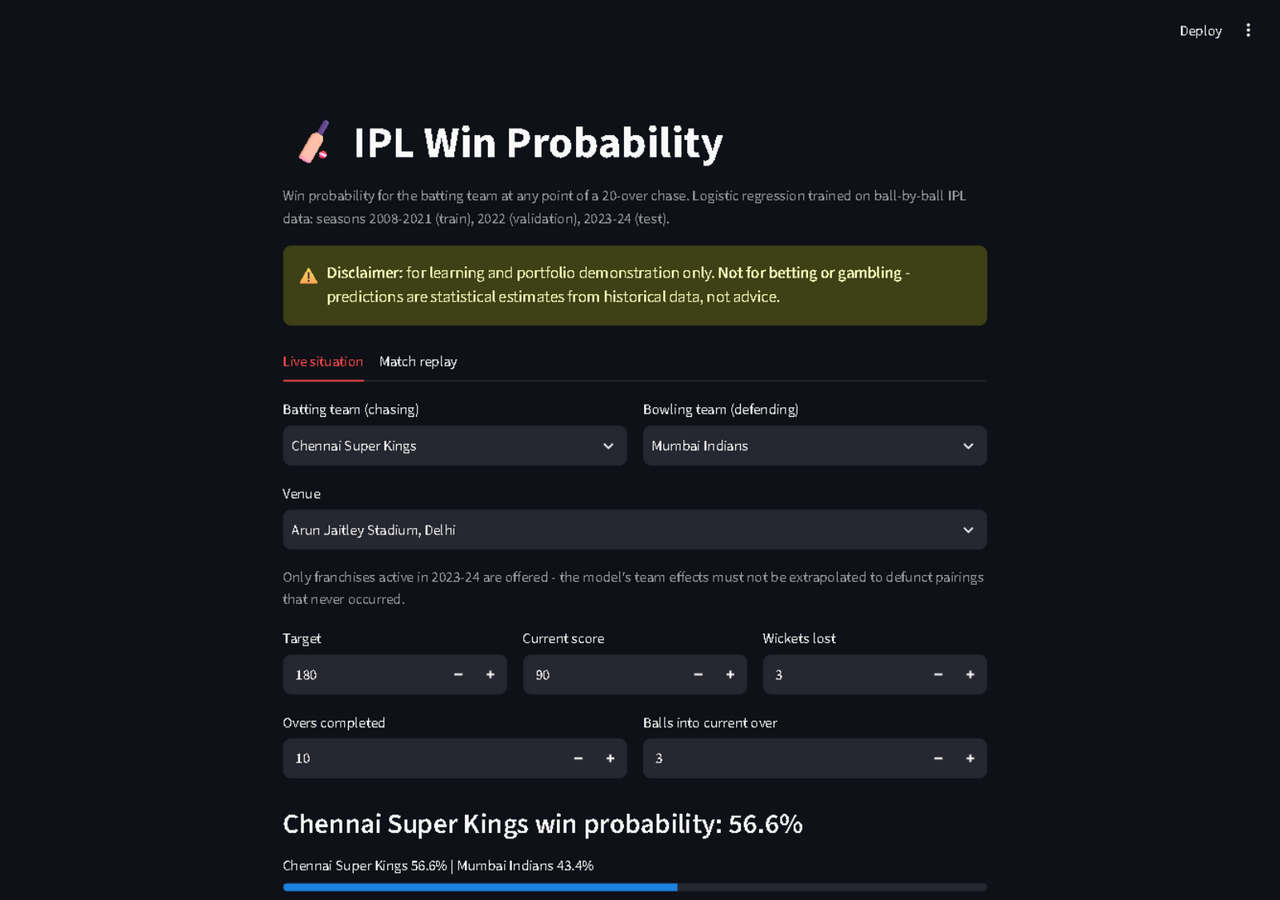
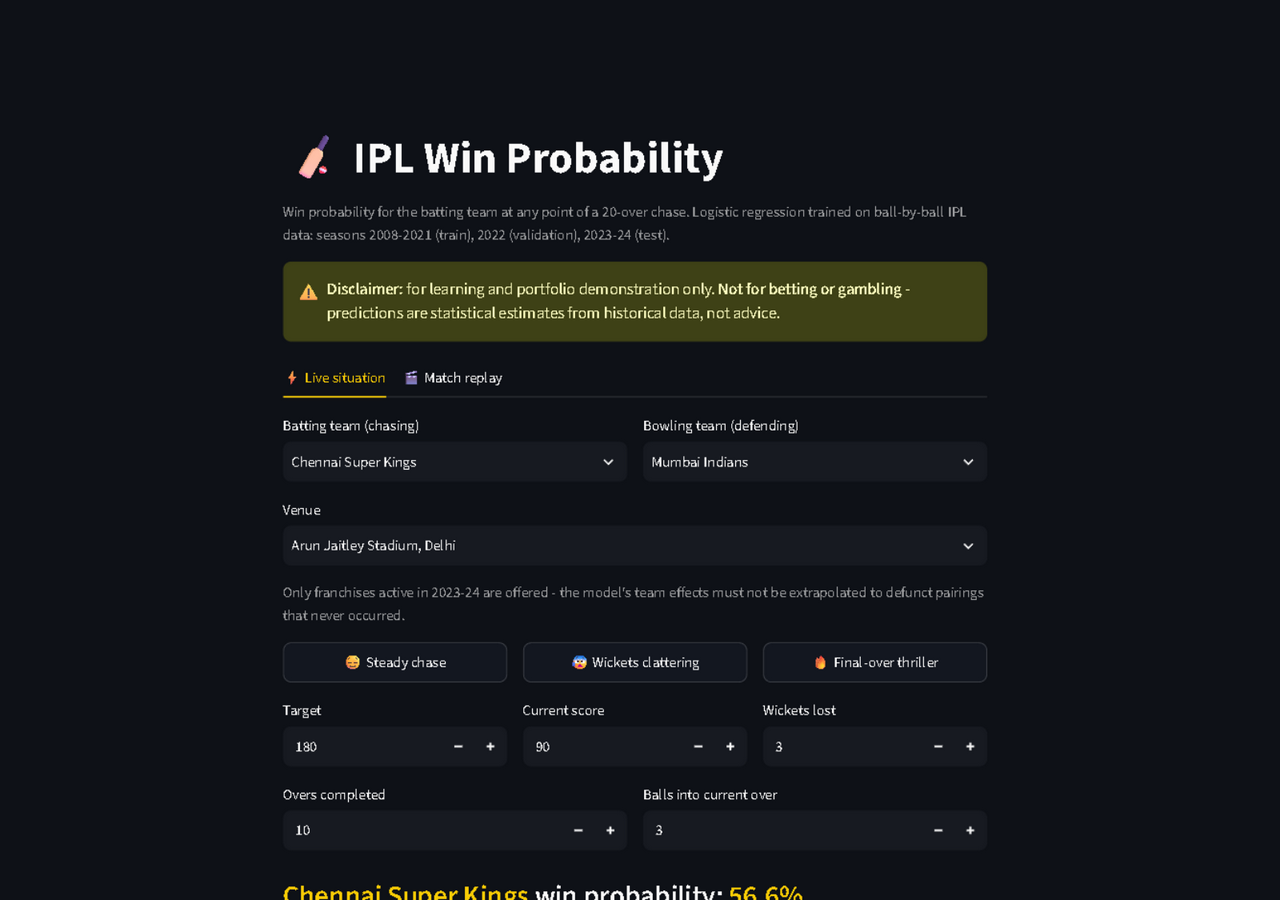
UI refresh: dark theme, team colours, presets, verdict, replay styling
- .streamlit/config.toml dark theme; custom CSS for metric cards, tabs,
  two-tone win bar; Streamlit toolbar hidden
- franchise brand colours in headline, win bar and replay chart line
  (with shaded area), short team codes in bar segments
- one-click situation presets (steady / wobble / final-over thriller)
- plain-English verdict line; what-if table now shows point deltas
- replay labels include venue; caption shows final score
- AppTest suite updated + preset test -> 36 tests pass; live browser
  verified: presets fill inputs and re-predict (0.7% for 14 off 3)

Changed region(s): [[0.2188, 0.1244, 0.7812, 1.0], [0.9062, 0.0311, 0.9688, 0.0622]]

diff --git a/app/app.py b/app/app.py
@@ -27,6 +27,73 @@ from src.predict import predict_situation  # noqa: E402
 
 st.set_page_config(page_title="IPL Win Probability", page_icon="🏏", layout="centered")
 
+#: Approximate franchise brand colours (canonical team name -> hex).
+TEAM_COLORS: dict[str, str] = {
+    "Chennai Super Kings": "#F9CD05",
+    "Mumbai Indians": "#004BA0",
+    "Royal Challengers Bengaluru": "#DA1818",
+    "Kolkata Knight Riders": "#5C2D91",
+    "Sunrisers Hyderabad": "#F26522",
+    "Rajasthan Royals": "#EA1A85",
+    "Delhi Capitals": "#17479E",
+    "Punjab Kings": "#D71920",
+    "Gujarat Titans": "#1B2C5C",
+    "Lucknow Super Giants": "#0072BC",
+}
+TEAM_SHORT: dict[str, str] = {
+    "Chennai Super Kings": "CSK",
+    "Mumbai Indians": "MI",
+    "Royal Challengers Bengaluru": "RCB",
+    "Kolkata Knight Riders": "KKR",
+    "Sunrisers Hyderabad": "SRH",
+    "Rajasthan Royals": "RR",
+    "Delhi Capitals": "DC",
+    "Punjab Kings": "PBKS",
+    "Gujarat Titans": "GT",
+    "Lucknow Super Giants": "LSG",
+}
+DEFAULT_COLOR = "#1F77B4"
+
+#: One-click example situations (label -> widget values).
+PRESETS: dict[str, dict[str, int]] = {
+    "😌 Steady chase": {"target": 180, "score": 95, "wickets": 2, "overs": 12, "balls": 0},
+    "😰 Wickets clattering": {"target": 180, "score": 78, "wickets": 5, "overs": 12, "balls": 0},
+    "🔥 Final-over thriller": {"target": 190, "score": 176, "wickets": 5, "overs": 19, "balls": 3},
+}
+
+CUSTOM_CSS = """
+<style>
+    [data-testid="stToolbar"] {visibility: hidden;}
+    [data-testid="stMetric"] {
+        background: rgba(255, 255, 255, 0.045);
+        border: 1px solid rgba(255, 255, 255, 0.09);
+        border-radius: 12px;
+        padding: 12px 16px 10px 16px;
+    }
+    [data-testid="stMetricValue"] {font-size: 1.55rem;}
+    [data-testid="stMetricLabel"] p {font-size: 0.86rem !important;}
+    [data-testid="stTab"] button {font-size: 1.02rem; padding: 10px 4px;}
+    .winbar {display: flex; width: 100%; height: 46px; border-radius: 11px;
+             overflow: hidden; font-weight: 700; font-size: 0.92rem;
+             box-shadow: 0 1px 6px rgba(0,0,0,0.35);}
+    .winbar .seg {display: flex; align-items: center; justify-content: center;
+                  color: #fff; text-shadow: 0 1px 2px rgba(0,0,0,0.55);
+                  white-space: nowrap; overflow: hidden;}
+    div[data-testid="stExpander"] {border-radius: 12px;}
+</style>
+"""
+st.markdown(CUSTOM_CSS, unsafe_allow_html=True)
+
+
+def team_color(team: str) -> str:
+    """Franchise colour with a neutral fallback for unknown names."""
+    return TEAM_COLORS.get(team, DEFAULT_COLOR)
+
+
+def team_short(team: str) -> str:
+    """Short franchise code for tight UI labels."""
+    return TEAM_SHORT.get(team, team[:3].upper())
+
 
 @st.cache_resource(show_spinner="Loading model...")
 def get_model() -> dict:
@@ -55,9 +122,7 @@ ART = get_model()
 #: active team with a defunct one (e.g. CSK vs Gujarat Lions, which never
 #: happened - CSK was suspended 2016-17) extrapolates nonsense.
 REPLAY = get_replay_data()
-ACTIVE_TEAMS: list[str] = sorted(
-    set(REPLAY["batting_team"]) | set(REPLAY["bowling_team"])
-)
+ACTIVE_TEAMS: list[str] = sorted(set(REPLAY["batting_team"]) | set(REPLAY["bowling_team"]))
 VENUES: list[str] = ART["venues"]
 
 st.title("🏏 IPL Win Probability")
@@ -73,7 +138,7 @@ st.warning(
     icon="⚠",
 )
 
-live_tab, replay_tab = st.tabs(["Live situation", "Match replay"])
+live_tab, replay_tab = st.tabs(["⚡ Live situation", "🎬 Match replay"])
 
 # ---------------------------------------------------------------------------
 # Live situation
@@ -95,6 +160,12 @@ with live_tab:
     venue = st.selectbox("Venue", VENUES, key="venue")
     st.caption("Only franchises active in 2023-24 are offered - the model's team "
                "effects must not be extrapolated to defunct pairings that never occurred.")
+
+    preset_row = st.columns(len(PRESETS))
+    for col, (label, values) in zip(preset_row, PRESETS.items()):
+        if col.button(label, use_container_width=True, key=f"preset_{label}"):
+            for widget_key, value in values.items():
+                st.session_state[widget_key] = value
 
     col_t, col_s, col_w = st.columns(3)
     target = col_t.number_input("Target", min_value=1, max_value=300, value=180, key="target")
@@ -131,11 +202,38 @@ with live_tab:
         wickets_lost=int(wickets),
     )
     p = result["p_bat"]
+    bat_color, bowl_color = team_color(batting), team_color(bowling)
 
-    st.subheader(f"{batting} win probability: {p * 100:.1f}%")
-    st.progress(
-        p,
-        text=f"{batting} {p * 100:.1f}%  |  {bowling} {(1 - p) * 100:.1f}%",
+    st.markdown(
+        f"### <span style='color:{bat_color}'>{batting}</span> win probability: "
+        f"<span style='color:{bat_color}'>{p * 100:.1f}%</span>",
+        unsafe_allow_html=True,
+    )
+
+    bat_seg = f"{team_short(batting)} {p * 100:.1f}%"
+    bowl_seg = f"{team_short(bowling)} {(1 - p) * 100:.1f}%"
+    st.markdown(
+        f"<div class='winbar'>"
+        f"<div class='seg' style='width:{max(p * 100, 14):.1f}%; "
+        f"background:linear-gradient(90deg, {bat_color}, {bat_color}CC)'>{bat_seg}</div>"
+        f"<div class='seg' style='width:{max((1 - p) * 100, 14):.1f}%; "
+        f"background:linear-gradient(90deg, {bowl_color}CC, {bowl_color})'>{bowl_seg}</div>"
+        f"</div>",
+        unsafe_allow_html=True,
+    )
+
+    crr, rrr = result["crr"], result["rrr"]
+    if result["runs_left"] == 0:
+        verdict = "The target is reached - chase complete."
+    elif crr >= rrr + 1:
+        verdict = f"{batting} are scoring comfortably faster than the required rate."
+    elif crr <= rrr - 1:
+        verdict = f"{batting} are falling behind the required rate."
+    else:
+        verdict = "Knife's edge - the scoring rate almost exactly matches the requirement."
+    st.caption(
+        f"**{result['runs_left']:.0f}** needed off **{result['balls_left']:.0f}** balls "
+        f"with **{10 - int(wickets)} wickets in hand**. {verdict}"
     )
 
     m_crr, m_rrr, m_runs, m_balls = st.columns(4)
@@ -149,9 +247,9 @@ with live_tab:
         st.markdown(
             "The model weighs, in order: "
             + ", ".join(f"**{k}** ({v:.0%})" for k, v in importance.items())
-            + ". For this situation the key numbers are a required rate of "
-            f"**{result['rrr']:.2f}** against a current rate of **{result['crr']:.2f}**, "
-            f"with **{10 - int(wickets)} wickets in hand** and "
+            + f". For this situation the key numbers are a required rate of "
+            f"**{rrr:.2f}** against a current rate of **{crr:.2f}**, with "
+            f"**{10 - int(wickets)} wickets in hand** and "
             f"**{result['balls_left']:.0f} balls left**."
         )
         rows = []
@@ -172,7 +270,11 @@ with live_tab:
             rows.append(("6 more dot balls", alt["p_bat"]))
         if rows:
             what_if = pd.DataFrame(
-                [{"scenario": name, "win probability": f"{prob * 100:.1f}%"} for name, prob in rows]
+                [{
+                    "scenario": name,
+                    "win probability": f"{prob * 100:.1f}%",
+                    "change": f"{'▲' if prob >= p else '▼'} {abs(prob - p) * 100:.1f} pts",
+                } for name, prob in rows]
             )
             st.table(what_if.set_index("scenario"))
         st.caption("Scenario probabilities move the situation and re-predict; "
@@ -189,7 +291,7 @@ with replay_tab:
     def match_label(match_id: int) -> str:
         row = meta.loc[match_id]
         return (f"{int(row['season_year'])}: {row['batting_team']} chasing "
-                f"{int(row['target'])} vs {row['bowling_team']}")
+                f"{int(row['target'])} vs {row['bowling_team']} · {row['venue'].split(', ')[-1]}")
 
     match_ids = sorted(meta.index, key=match_label)
     choice = st.selectbox("Pick a match", match_ids, format_func=match_label, key="replay_match")
@@ -201,13 +303,17 @@ with replay_tab:
         demo["balls_bowled"].tolist(),
         probs.tolist(),
         wicket_balls,
+        color=team_color(demo["batting_team"].iloc[0]),
         title=match_label(choice),
     )
     st.pyplot(fig)
 
     outcome = "chase won" if demo["chase_won"].iloc[-1] == 1 else "chase lost"
-    st.caption(f"Final outcome: **{outcome}**. Red crosses mark wickets; the "
-               "dashed line is 50%. Each point uses only information available at that ball.")
+    st.caption(
+        f"Finished **{demo['runs_so_far'].iloc[-1]:.0f}/{demo['wickets_out'].iloc[-1]:.0f}** "
+        f"- **{outcome}**. Red crosses mark wickets; the dashed line is 50%. "
+        "Each point uses only information available at that ball."
+    )
 
 st.divider()
 st.caption(

diff --git a/tests/test_app.py b/tests/test_app.py
@@ -9,12 +9,13 @@ from __future__ import annotations
 
 from pathlib import Path
 
+import pandas as pd
 import pytest
 from streamlit.testing.v1 import AppTest
 
 APP = str(Path(__file__).resolve().parents[1] / "app" / "app.py")
 pytestmark = pytest.mark.skipif(
-    not __import__("pathlib").Path("models/model.joblib").exists(),
+    not Path("models/model.joblib").exists(),
     reason="models/model.joblib not trained yet (run python -m src.train)",
 )
 
@@ -27,31 +28,51 @@ def at() -> AppTest:
     return run
 
 
+def _all_text(at: AppTest) -> str:
+    """Every rendered text value, for content assertions."""
+    elements = (list(at.markdown) + list(at.subheader) + list(at.caption)
+                + list(at.warning) + list(at.info) + list(at.success))
+    return " ".join(str(el.value) for el in elements)
+
+
 def test_app_runs_without_exception(at: AppTest) -> None:
     assert not at.exception
     assert not at.error, [e.value for e in at.error]
 
 
 def test_disclaimer_is_visible(at: AppTest) -> None:
-    texts = " ".join(str(el.value) for el in list(at.warning) + list(at.markdown) + list(at.caption))
-    assert "betting" in texts.lower() and "gambling" in texts.lower()
+    texts = _all_text(at).lower()
+    assert "betting" in texts and "gambling" in texts
 
 
 def test_default_prediction_rendered(at: AppTest) -> None:
-    headers = " ".join(s.value for s in at.subheader)
-    assert "win probability" in headers.lower()
+    assert "win probability" in _all_text(at).lower()
     assert len(at.metric) == 4, "CRR, RRR, runs left and balls left must all render"
-    assert len(at.progress) == 1
+    assert any("winbar" in str(el.value) for el in at.markdown), (
+        "the two-tone win bar must render"
+    )
 
 
 def test_prediction_changes_with_inputs(at: AppTest) -> None:
-    before = at.subheader[0].value
+    before = _all_text(at)
     at.number_input(key="score").set_value(170)
     at.number_input(key="wickets").set_value(1)
     at.run()
     assert not at.exception
-    assert at.subheader[0].value != before, "a big score with 1 wicket down must move the headline"
-    assert "%" in at.subheader[0].value
+    assert _all_text(at) != before, "a big score with 1 wicket down must move the output"
+    assert "win probability" in _all_text(at).lower()
+
+
+def test_preset_button_fills_the_situation(at: AppTest) -> None:
+    """One click on a preset fills all five situation inputs at once."""
+    at.button(key="preset_🔥 Final-over thriller").click()
+    at.run()
+    assert not at.exception
+    assert at.number_input(key="target").value == 190
+    assert at.number_input(key="score").value == 176
+    assert at.number_input(key="overs").value == 19
+    assert at.number_input(key="balls").value == 3
+    assert "win probability" in _all_text(at).lower()
 
 
 def test_score_at_or_above_target_shows_friendly_error(at: AppTest) -> None:
@@ -66,11 +87,9 @@ def test_replay_tab_renders_a_chart(at: AppTest) -> None:
     assert select is not None, "the replay tab must expose a match picker"
     at.run()
     captions = " ".join(str(c.value) for c in at.caption)
-    assert "Final outcome" in captions, "the replay caption with the match result must render"
+    assert "Finished" in captions, "the replay caption with the final score must render"
     assert not at.exception
     # AppTest .options are formatted labels; .select() takes the raw match id
-    import pandas as pd
-
     ids = pd.read_csv("app/assets/replay_chases.csv")["match_id"].unique()
     other = int([i for i in ids if i != select.value][0])
     select.select(other).run()

diff --git a/src/evaluate.py b/src/evaluate.py
@@ -140,7 +140,8 @@ def plot_importance(importance: dict[str, float], path: Path, top: int = 15) -> 
 
 
 def plot_win_curve(balls_bowled: list[int], probs: list[float], wickets_balls: list[int],
-                   path: Path | None = None, title: str = "Win probability over the chase"):
+                   path: Path | None = None, title: str = "Win probability over the chase",
+                   color: str = "#1F77B4"):
     """Plot a single chase's win-probability curve with wicket markers.
 
     Args:
@@ -149,12 +150,15 @@ def plot_win_curve(balls_bowled: list[int], probs: list[float], wickets_balls: l
         wickets_balls: ``balls_bowled`` values where a wicket fell (markers).
         path: Optional output PNG path; None keeps the figure open for the
             caller (e.g. ``st.pyplot``).
+        title: Chart title.
+        color: Line/fill colour (the app passes the batting team's colour).
 
     Returns:
         The Matplotlib figure.
     """
     fig, ax = plt.subplots(figsize=(7.2, 3.6), dpi=150)
-    ax.plot(balls_bowled, probs, linewidth=1.8, color="#1f77b4")
+    ax.plot(balls_bowled, probs, linewidth=1.8, color=color)
+    ax.fill_between(balls_bowled, probs, color=color, alpha=0.14)
     if wickets_balls:
         wk_probs = [probs[balls_bowled.index(b)] for b in wickets_balls]
         ax.scatter(wickets_balls, wk_probs, marker="x", color="crimson", zorder=3, label="wicket")

diff --git a/README.md b/README.md
@@ -138,9 +138,11 @@ Screenshots (captured live, stored in `reports/screenshots/`):
 
 | File | Shows |
 |---|---|
-| `app_live.png` | Inputs + win probability headline |
-| `app_stats.png` | Gauge, CRR/RRR/runs left/balls left |
-| `app_drivers.png` | "What drives this prediction" + what-if table |
+| `app_live.png` | Dark-themed inputs, one-click presets, win-probability headline |
+| `app_stats.png` | Two-tone team-coloured win bar, verdict line, CRR/RRR/runs/balls cards |
+| `app_drivers.png` | "What drives this prediction" + what-if table with point deltas |
+| `app_thriller.png` | The "Final-over thriller" preset: 14 needed off 3 balls → 0.7% |
+| `app_replay.png` | Match replay: team-coloured probability curve with wicket markers |
 
 Re-capture after deployment if you restyle anything, and replace the live-app
 placeholder at the top.
